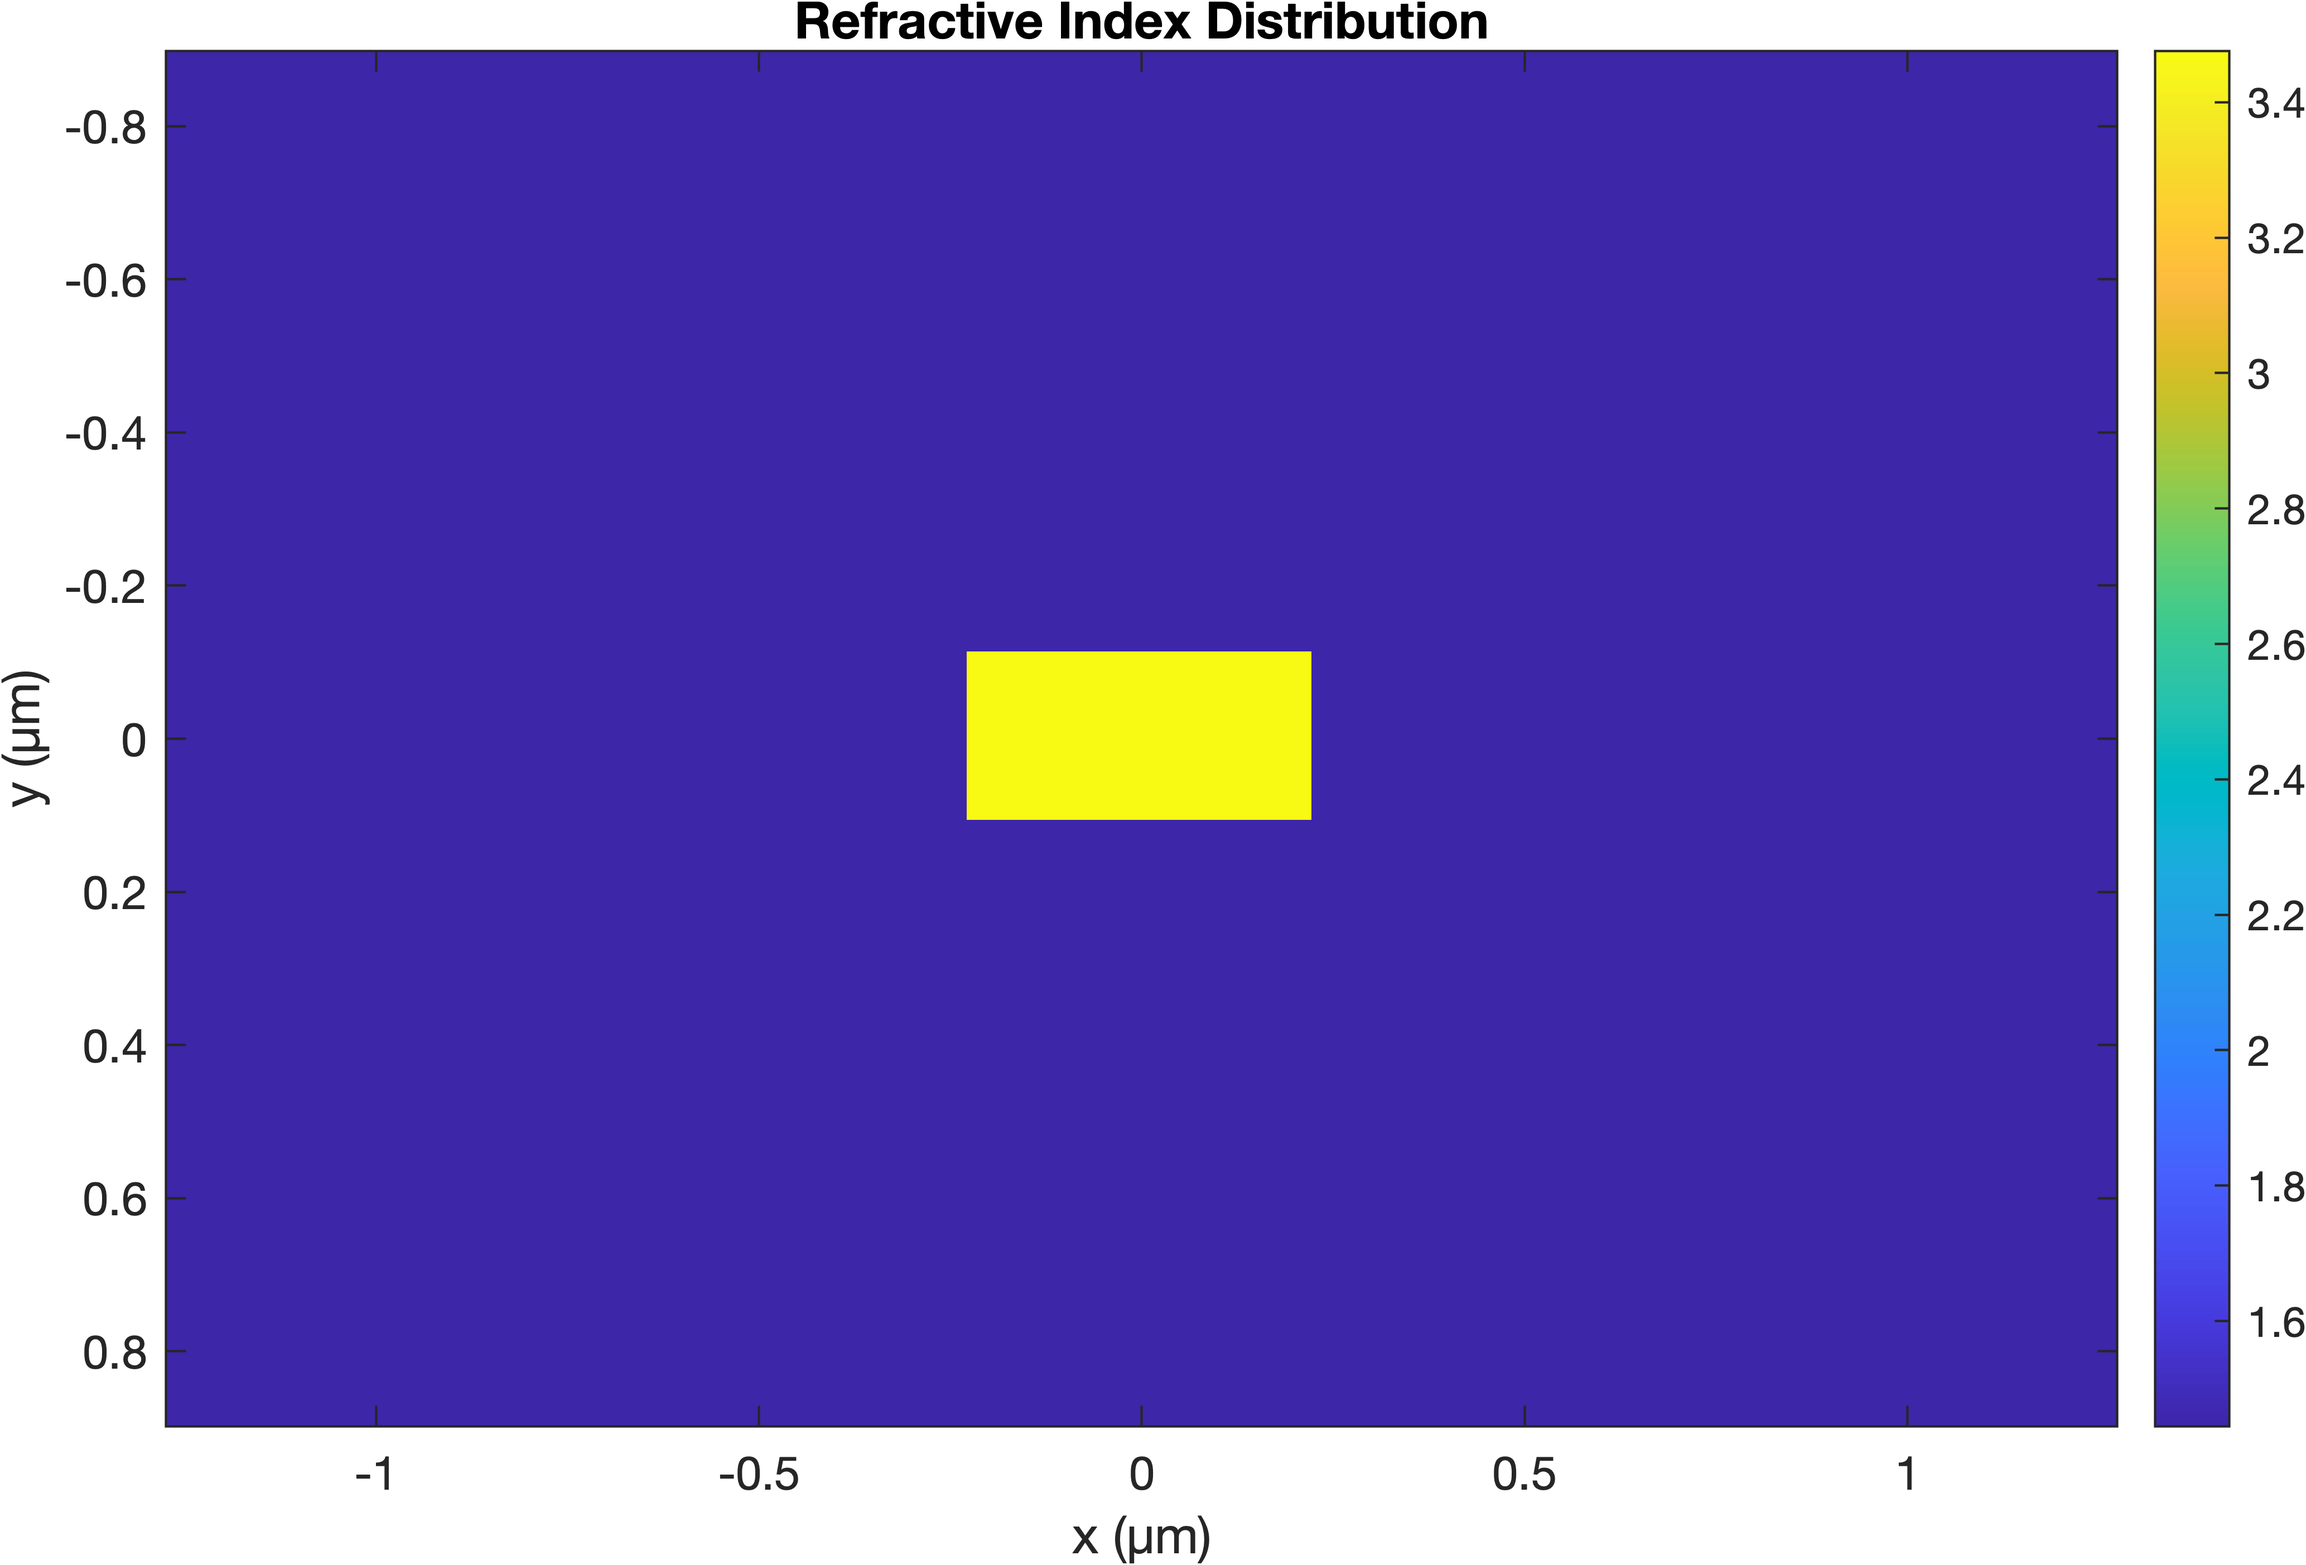
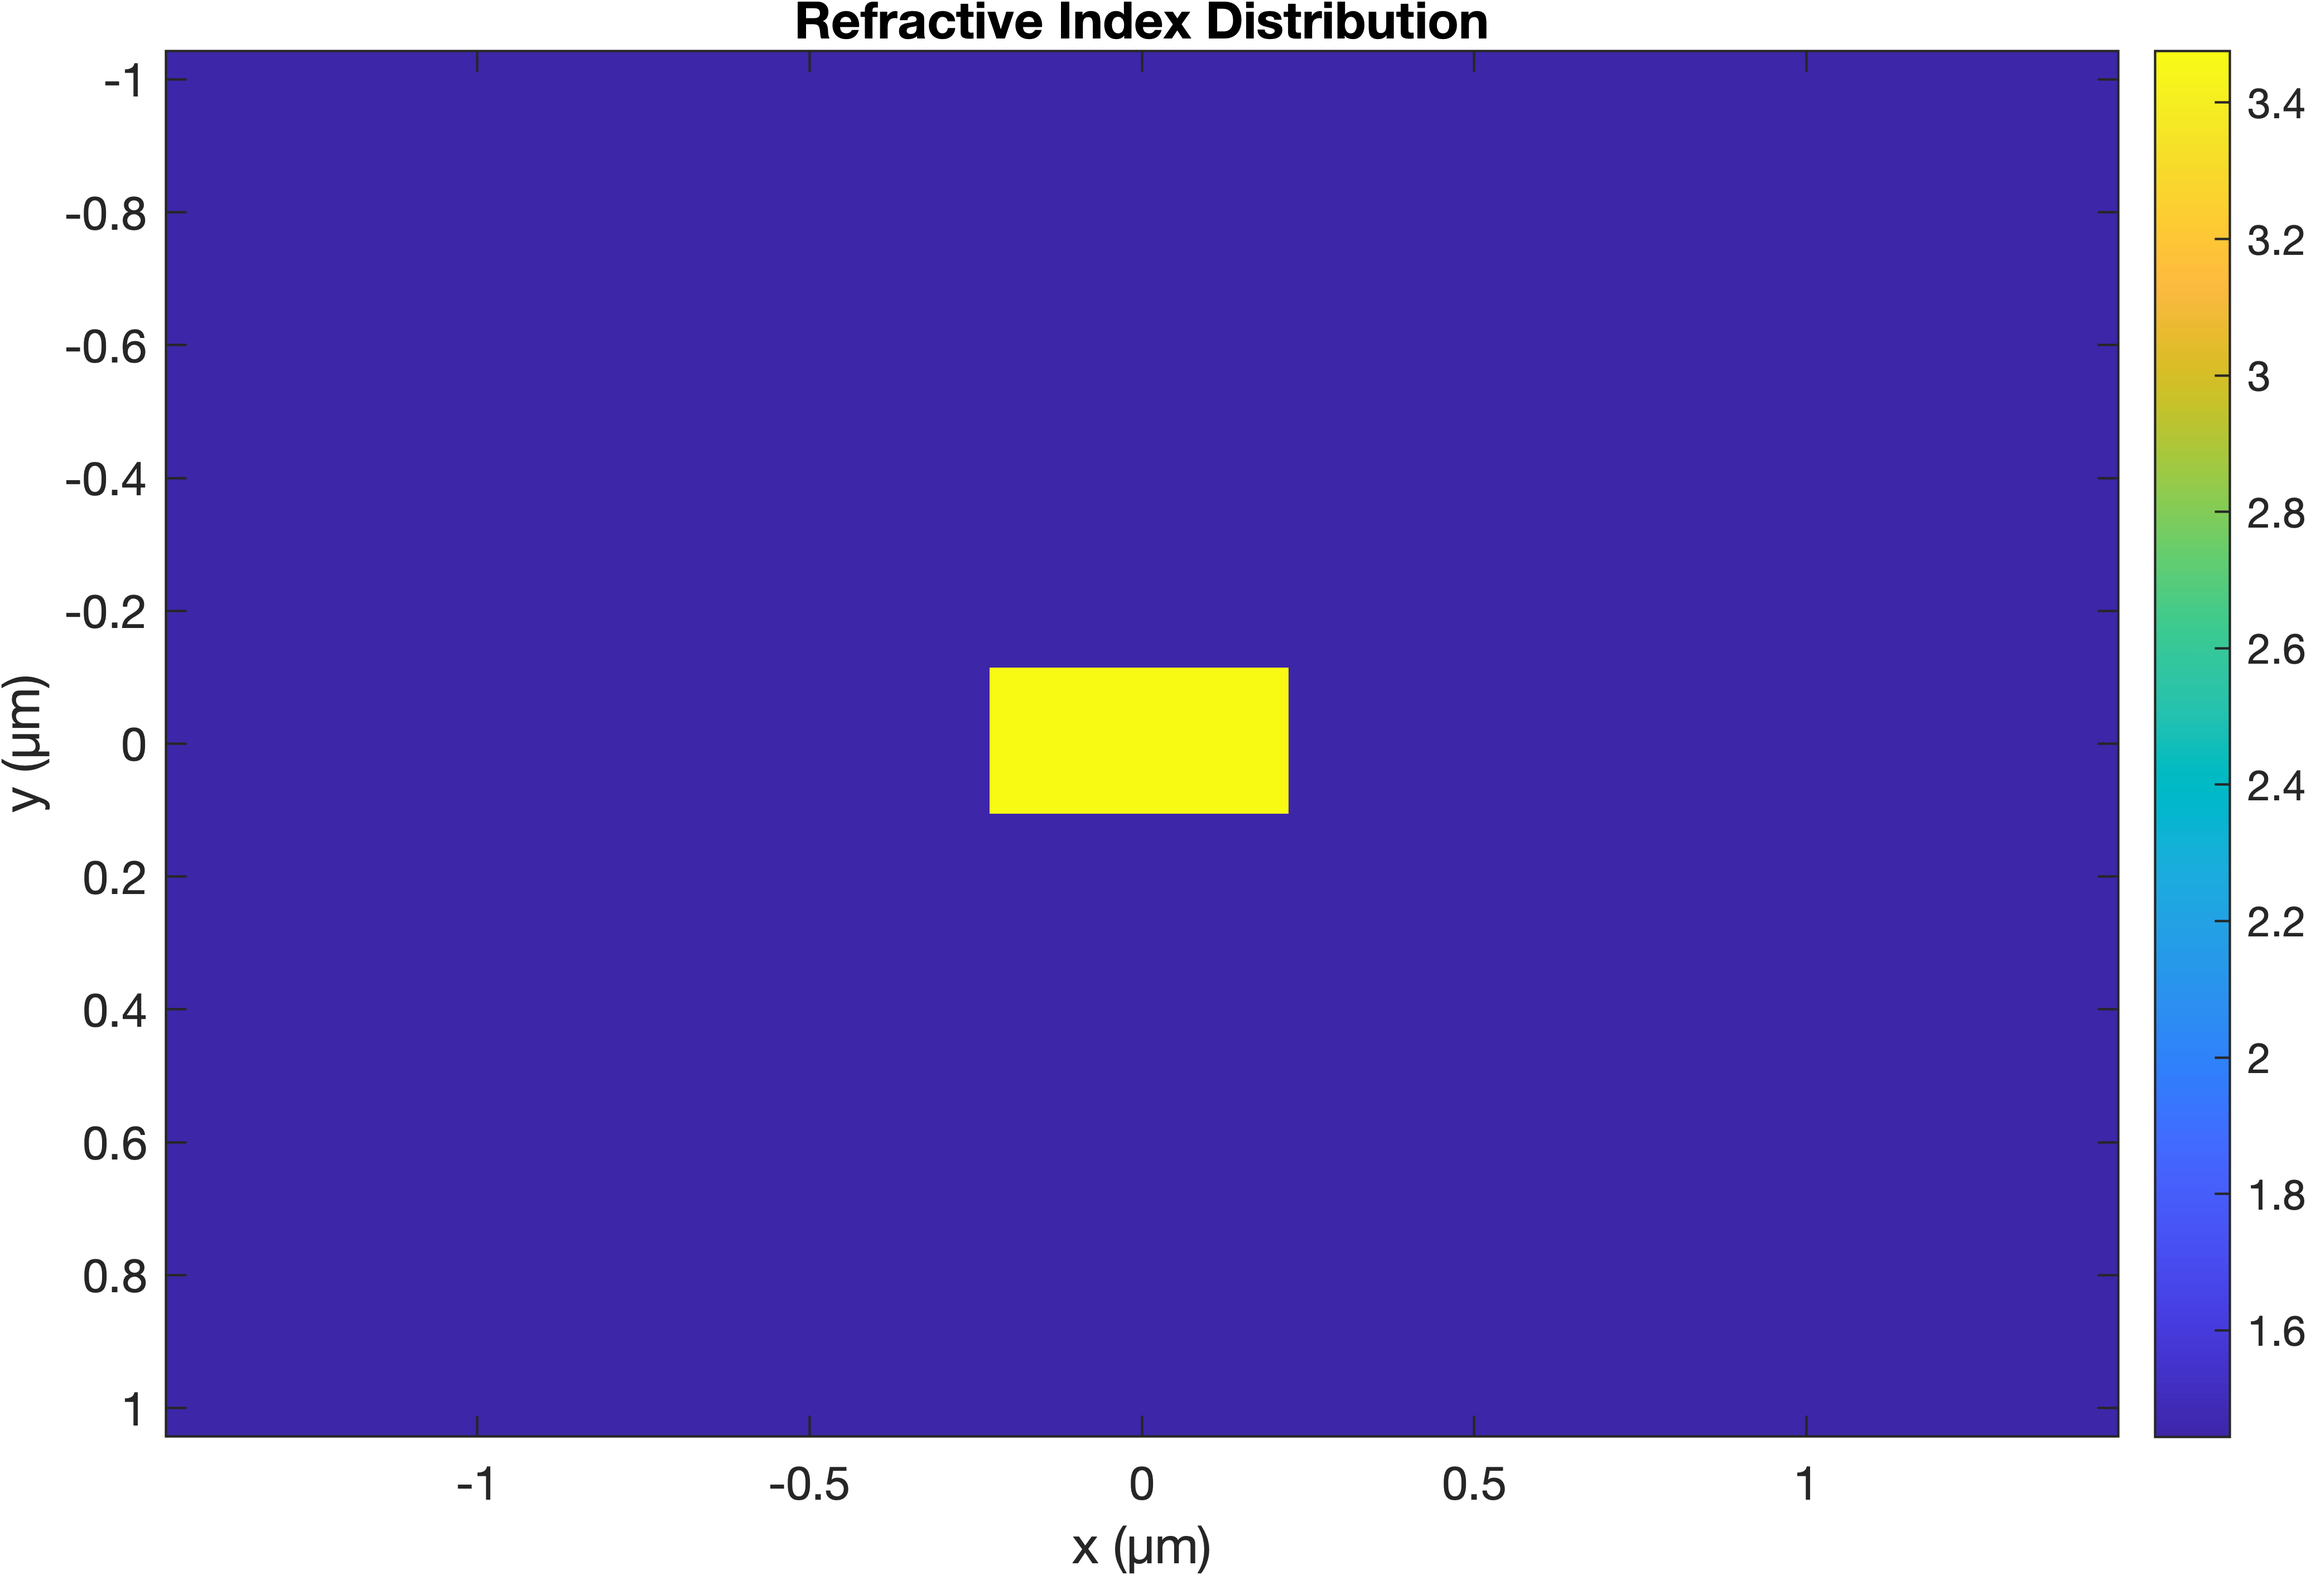
correct all components

diff --git a/Task2/main.m b/Task2/main.m
@@ -19,7 +19,7 @@ fprintf('=== TASK 1: Mode Profile Visualization ===\n');
 % --- Analysis at 1550 nm wavelength ---
 fprintf('Analyzing modes at 1550 nm...\n');
 lam0 = 1550;        % Wavelength [nm]
-rib_w = 45;         % Rib width [nm]
+rib_w = 450;         % Rib width [nm]
 
 % Solve for waveguide modes
 [Ex, Ey, Ez, Hx, Hy, Hz, NEFF, Gamma_Si] = rib_waveguide_solver(lam0, rib_w);
@@ -28,10 +28,14 @@ rib_w = 45;         % Rib width [nm]
 plot_domain(1);
 
 % Plot TE0 mode (Ex component)
-plot_single_field(Ex, 'TE_0 (E_x)', 1, NEFF, ['TE0_lam0_' num2str(lam0) '.png']);
+plot_single_field(Ex, 'TE_0 (E_x)', 1, NEFF, ['TE0_Ex_lam0_' num2str(lam0) '.png']);
+plot_single_field(Ey, 'TE_0 (E_y)', 1, NEFF, ['TE0_Ey_lam0_' num2str(lam0) '.png']);
+plot_single_field(Ez, 'TE_0 (E_z)', 1, NEFF, ['TE0_Ez_lam0_' num2str(lam0) '.png']);
 
 % Plot TM0 mode (Ey component)  
-plot_single_field(Ey, 'TM_0 (E_y)', 2, NEFF, ['TM0_lam0_' num2str(lam0) '.png']);
+plot_single_field(Ex, 'TM_0 (E_x)', 2, NEFF, ['TM0_Ex_lam0_' num2str(lam0) '.png']);
+plot_single_field(Ey, 'TM_0 (E_y)', 2, NEFF, ['TM0_Ey_lam0_' num2str(lam0) '.png']);
+plot_single_field(Ez, 'TM_0 (E_z)', 2, NEFF, ['TM0_Ez_lam0_' num2str(lam0) '.png']);
 
 % --- Analysis at 1310 nm wavelength ---
 fprintf('Analyzing modes at 1310 nm...\n');
@@ -42,10 +46,14 @@ rib_w = 450;        % Rib width [nm]
 [Ex, Ey, Ez, Hx, Hy, Hz, NEFF, Gamma_Si] = rib_waveguide_solver(lam0, rib_w);
 
 % Plot TE0 mode (Ex component)
-plot_single_field(Ex, 'TE_0 (E_x)', 1, NEFF, ['TE0_lam0_' num2str(lam0) '.png']);
+plot_single_field(Ex, 'TE_0 (E_x)', 1, NEFF, ['TE0_Ex_lam0_' num2str(lam0) '.png']);
+plot_single_field(Ey, 'TE_0 (E_y)', 1, NEFF, ['TE0_Ey_lam0_' num2str(lam0) '.png']);
+plot_single_field(Ez, 'TE_0 (E_z)', 1, NEFF, ['TE0_Ez_lam0_' num2str(lam0) '.png']);
 
 % Plot TM0 mode (Ey component)
-plot_single_field(Ey, 'TM_0 (E_y)', 2, NEFF, ['TM0_lam0_' num2str(lam0) '.png']);
+plot_single_field(Ex, 'TM_0 (E_x)', 2, NEFF, ['TM0_Ex_lam0_' num2str(lam0) '.png']);
+plot_single_field(Ey, 'TM_0 (E_y)', 2, NEFF, ['TM0_Ey_lam0_' num2str(lam0) '.png']);
+plot_single_field(Ez, 'TM_0 (E_z)', 2, NEFF, ['TM0_Ez_lam0_' num2str(lam0) '.png']);
 
 %% ========================================================================
 %% TASK 2: Effective index vs wavelength for first 5 modes
